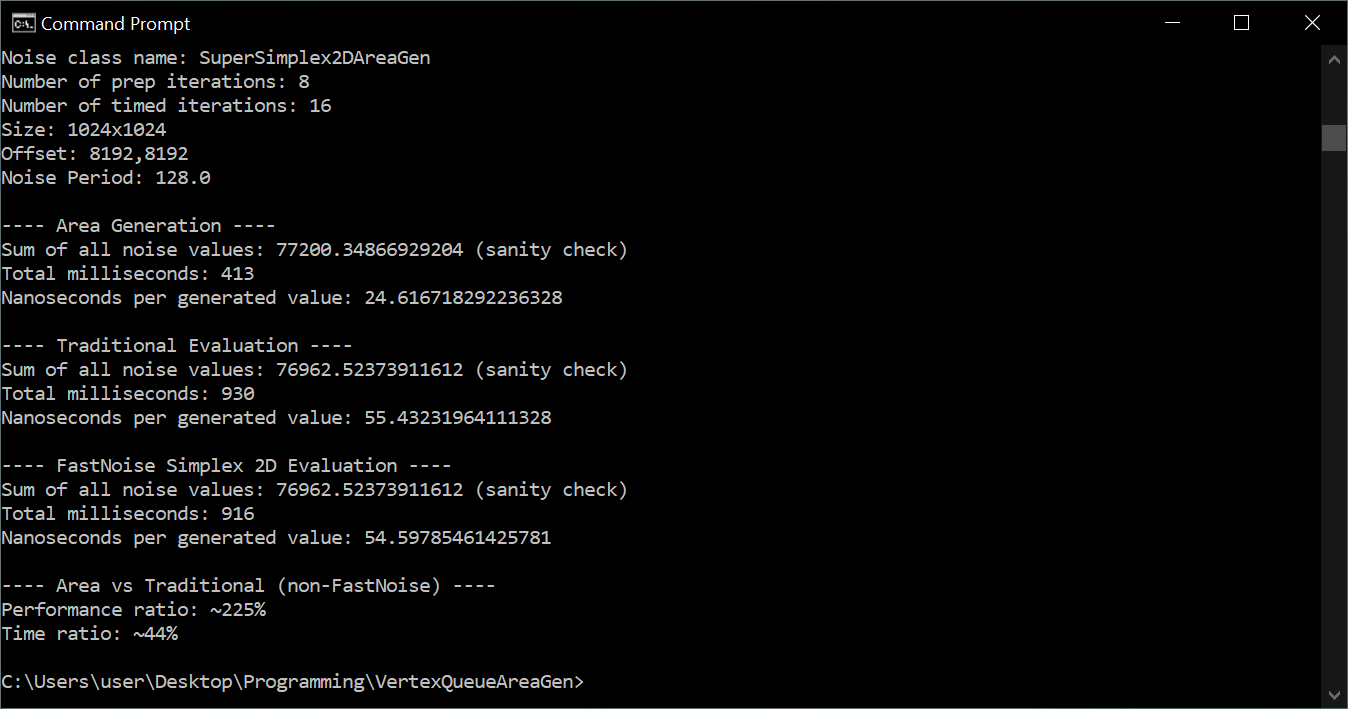
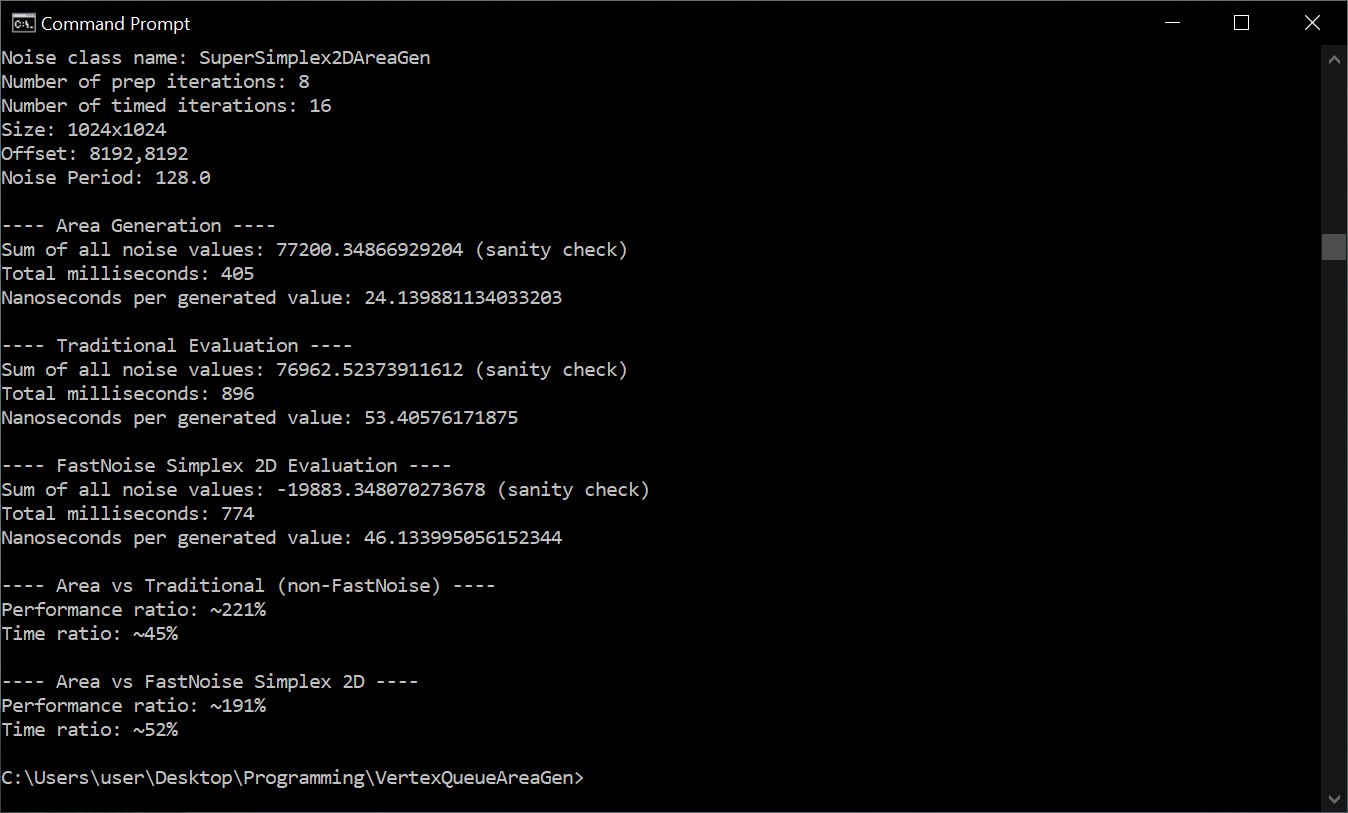
Fix FastNoise comaprison screenshots & include FastNoise metrics code

Changed region(s): [[0.0, 0.0, 0.4985, 1.0], [0.9659, 0.2793, 1.0, 0.3413], [0.9659, 0.1551, 1.0, 0.2172]]

diff --git a/NoiseMetricsVsFastNoise.java b/NoiseMetricsVsFastNoise.java
@@ -1,0 +1,157 @@
+/*
+ * SuperSimplex Noise 2D Area Generation metrics.
+ * Modified to also compare against FastNoise.
+ */
+
+class NoiseMetricsVsFastNoise {
+	
+	static final int N_INSTANCES = 1;
+	static final int N_PREP_ITERATIONS = 8;
+	static final int N_TIMED_ITERATIONS = 16;
+	
+	static final int WIDTH = 1024;
+	static final int HEIGHT = 1024;
+	static final double NOISE_EVAL_PERIOD = 128.0;
+	static final int OFF_X = 8192;
+	static final int OFF_Y = 8192;
+	static final FastNoise.NoiseType fastNoiseType = FastNoise.NoiseType.Perlin;
+	
+	static final double NOISE_EVAL_FREQ = 1.0 / NOISE_EVAL_PERIOD;
+	
+	public static void main(String[] args) {
+		
+		SuperSimplex2DAreaGen.GenerateContext2D ctx = new SuperSimplex2DAreaGen.GenerateContext2D(NOISE_EVAL_FREQ);
+		SuperSimplex2DAreaGen[] noises = new SuperSimplex2DAreaGen[N_INSTANCES];
+		FastNoise[] fastNoises = new FastNoise[N_INSTANCES];
+		for (int i = 0; i < N_INSTANCES; i++) {
+			noises[i] = new SuperSimplex2DAreaGen(i);
+			fastNoises[i] = new FastNoise(i);
+			fastNoises[i].SetNoiseType(fastNoiseType);
+			fastNoises[i].SetFrequency((float)NOISE_EVAL_FREQ);
+		}
+		
+		long time1 = 0;
+		double sum1 = 0;
+		long time2 = 0;
+		double sum2 = 0;
+		long time3 = 0;
+		double sum3 = 0;
+
+		for (int ie = 0; ie < N_PREP_ITERATIONS + N_TIMED_ITERATIONS; ie++) {
+			
+			for (int i = 0; i < N_INSTANCES; i++) {
+				
+				double[][] buffer = new double[HEIGHT][WIDTH];
+				long start = System.currentTimeMillis();
+				
+				// Generate area
+				noises[i].generate(ctx, buffer, OFF_X, OFF_Y);
+				
+				long elapsed = System.currentTimeMillis() - start;
+				
+				// Want to make sure the JVM isn't taking any shortcuts for unused values (would it do that?)
+				for (int y = 0; y < HEIGHT; y++) {
+					for (int x = 0; x < WIDTH; x++) {
+						sum1 += buffer[y][x];
+					}
+				}
+			
+				if (ie >= N_PREP_ITERATIONS) {
+					time1 += elapsed;
+				}
+			}
+		}
+
+		for (int ie = 0; ie < N_PREP_ITERATIONS + N_TIMED_ITERATIONS; ie++) {
+			
+			for (int i = 0; i < N_INSTANCES; i++) {
+				
+				double[][] buffer = new double[HEIGHT][WIDTH];
+				long start = System.currentTimeMillis();
+				
+				// Generate traditionally
+				for (int y = 0; y < HEIGHT; y++) {
+					for (int x = 0; x < WIDTH; x++) {
+						buffer[y][x] = noises[i].eval((x + OFF_X) * NOISE_EVAL_FREQ, (y + OFF_Y) * NOISE_EVAL_FREQ);
+					}
+				}
+				
+				long elapsed = System.currentTimeMillis() - start;
+				
+				// Want to make sure the JVM isn't taking any shortcuts for unused values (would it do that?)
+				for (int y = 0; y < HEIGHT; y++) {
+					for (int x = 0; x < WIDTH; x++) {
+						sum2 += buffer[y][x];
+					}
+				}
+			
+				if (ie >= N_PREP_ITERATIONS) {
+					time2 += elapsed;
+				}
+			}
+		}
+
+		for (int ie = 0; ie < N_PREP_ITERATIONS + N_TIMED_ITERATIONS; ie++) {
+			
+			for (int i = 0; i < N_INSTANCES; i++) {
+				
+				double[][] buffer = new double[HEIGHT][WIDTH];
+				long start = System.currentTimeMillis();
+				
+				// Generate traditionally
+				for (int y = 0; y < HEIGHT; y++) {
+					for (int x = 0; x < WIDTH; x++) {
+						buffer[y][x] = fastNoises[i].GetNoise((x + OFF_X), (y + OFF_Y));
+					}
+				}
+				
+				long elapsed = System.currentTimeMillis() - start;
+				
+				// Want to make sure the JVM isn't taking any shortcuts for unused values (would it do that?)
+				for (int y = 0; y < HEIGHT; y++) {
+					for (int x = 0; x < WIDTH; x++) {
+						sum3 += buffer[y][x];
+					}
+				}
+			
+				if (ie >= N_PREP_ITERATIONS) {
+					time3 += elapsed;
+				}
+			}
+		}
+		
+		System.out.println("Noise class name: " + noises[0].getClass().getName());
+		System.out.println("Number of prep iterations: " + N_PREP_ITERATIONS);
+		System.out.println("Number of timed iterations: " + N_TIMED_ITERATIONS);
+		System.out.println("Size: " + WIDTH  + "x" + HEIGHT);
+		System.out.println("Offset: " + OFF_X  + "," + OFF_Y);
+		System.out.println("Noise Period: " + NOISE_EVAL_PERIOD);
+		System.out.println();
+		System.out.println("---- Area Generation ----");
+		System.out.println("Sum of all noise values: " + sum1 + " (sanity check)");
+		System.out.println("Total milliseconds: " + time1);
+		System.out.println("Nanoseconds per generated value: " + (time1 * 1_000_000.0 / (N_TIMED_ITERATIONS * N_INSTANCES * WIDTH * HEIGHT)));
+		System.out.println();
+		System.out.println("---- Traditional Evaluation ----");
+		System.out.println("Sum of all noise values: " + sum2 + " (sanity check)");
+		System.out.println("Total milliseconds: " + time2);
+		System.out.println("Nanoseconds per generated value: " + (time2 * 1_000_000.0 / (N_TIMED_ITERATIONS * N_INSTANCES * WIDTH * HEIGHT)));
+		System.out.println();
+		System.out.println("---- FastNoise " + fastNoiseType + " 2D Evaluation ----");
+		System.out.println("Sum of all noise values: " + sum3 + " (sanity check)");
+		System.out.println("Total milliseconds: " + time3);
+		System.out.println("Nanoseconds per generated value: " + (time3 * 1_000_000.0 / (N_TIMED_ITERATIONS * N_INSTANCES * WIDTH * HEIGHT)));
+		System.out.println();
+		System.out.println("---- Area vs Traditional (non-FastNoise) ----");
+		System.out.println("Performance ratio: ~" + Math.round(time2 * 100.0 / time1) + "%");
+		System.out.println("Time ratio: ~" + Math.round(time1 * 100.0 / time2) + "%");
+		System.out.println();
+		System.out.println("---- Area vs FastNoise " + fastNoiseType + " 2D ----");
+		System.out.println("Performance ratio: ~" + Math.round(time3 * 100.0 / time1) + "%");
+		System.out.println("Time ratio: ~" + Math.round(time1 * 100.0 / time3) + "%");
+		
+		
+	}
+	
+	
+}
